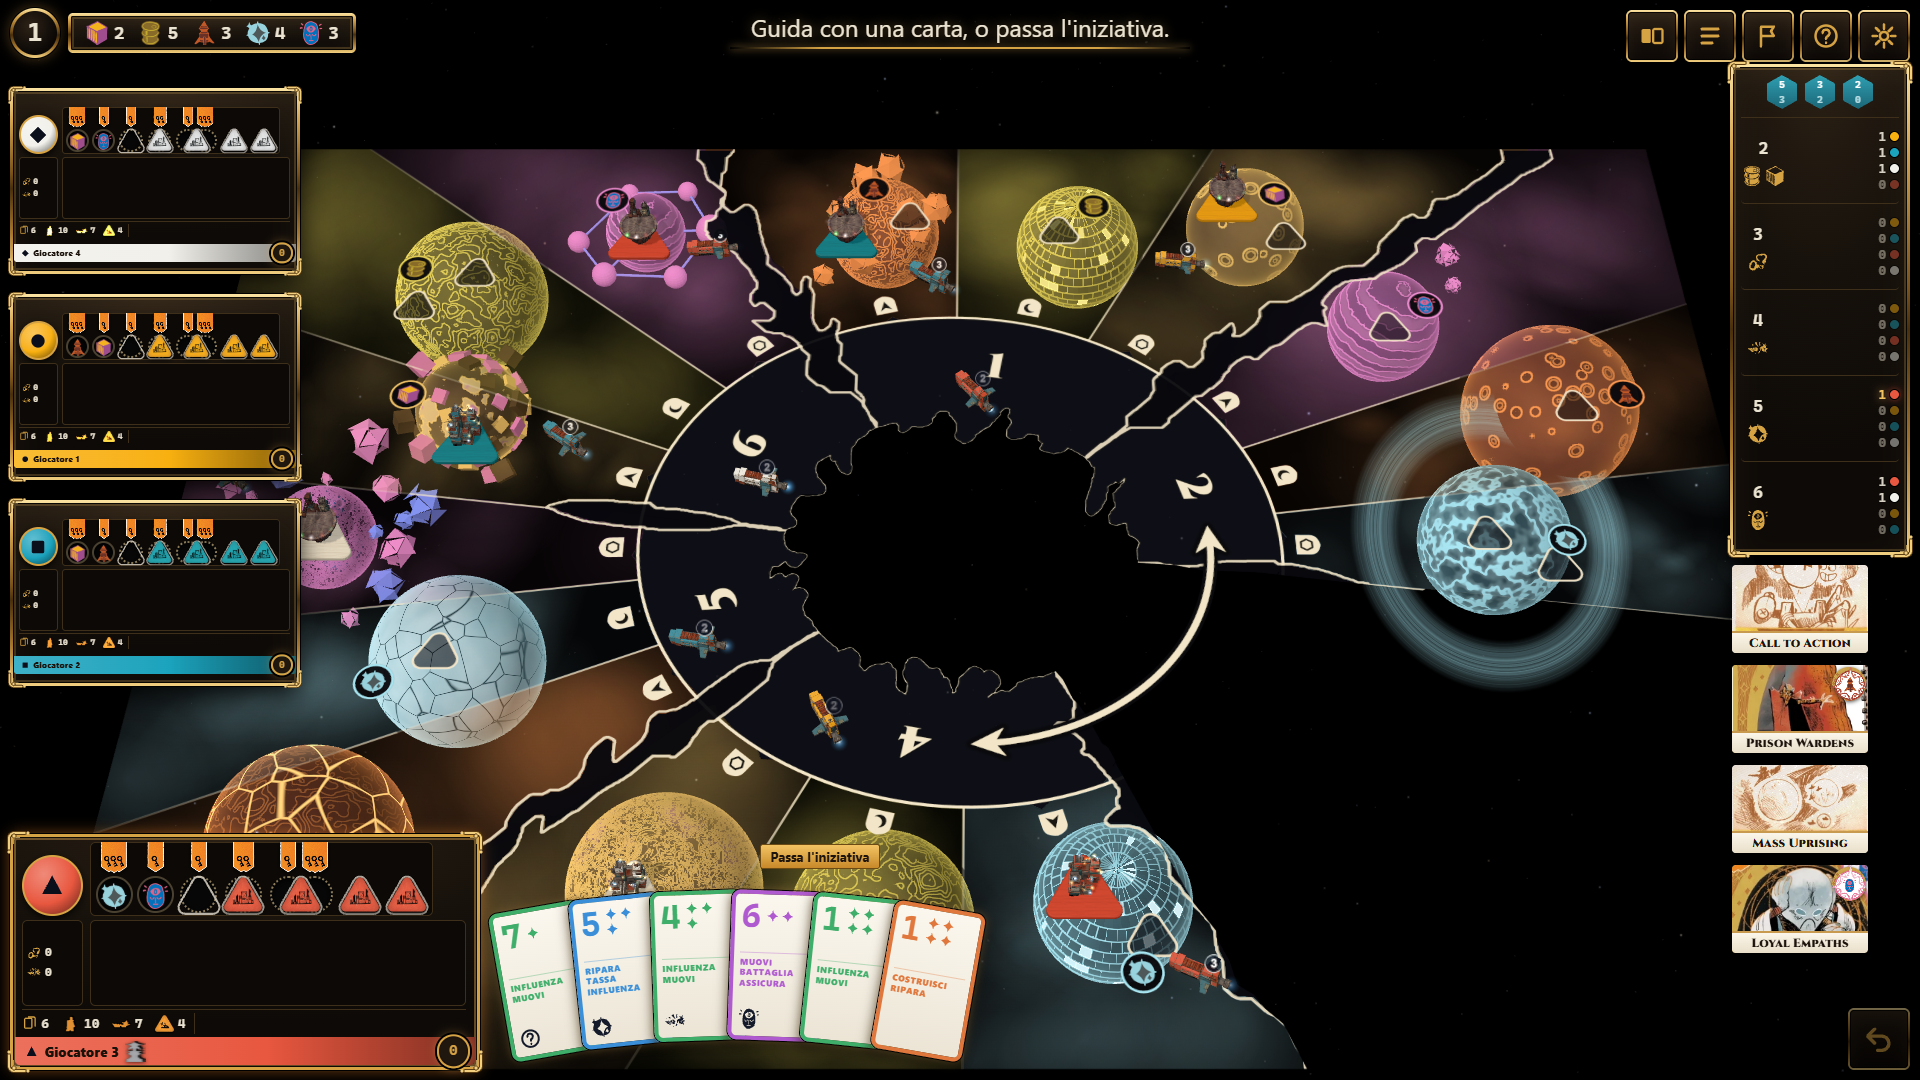
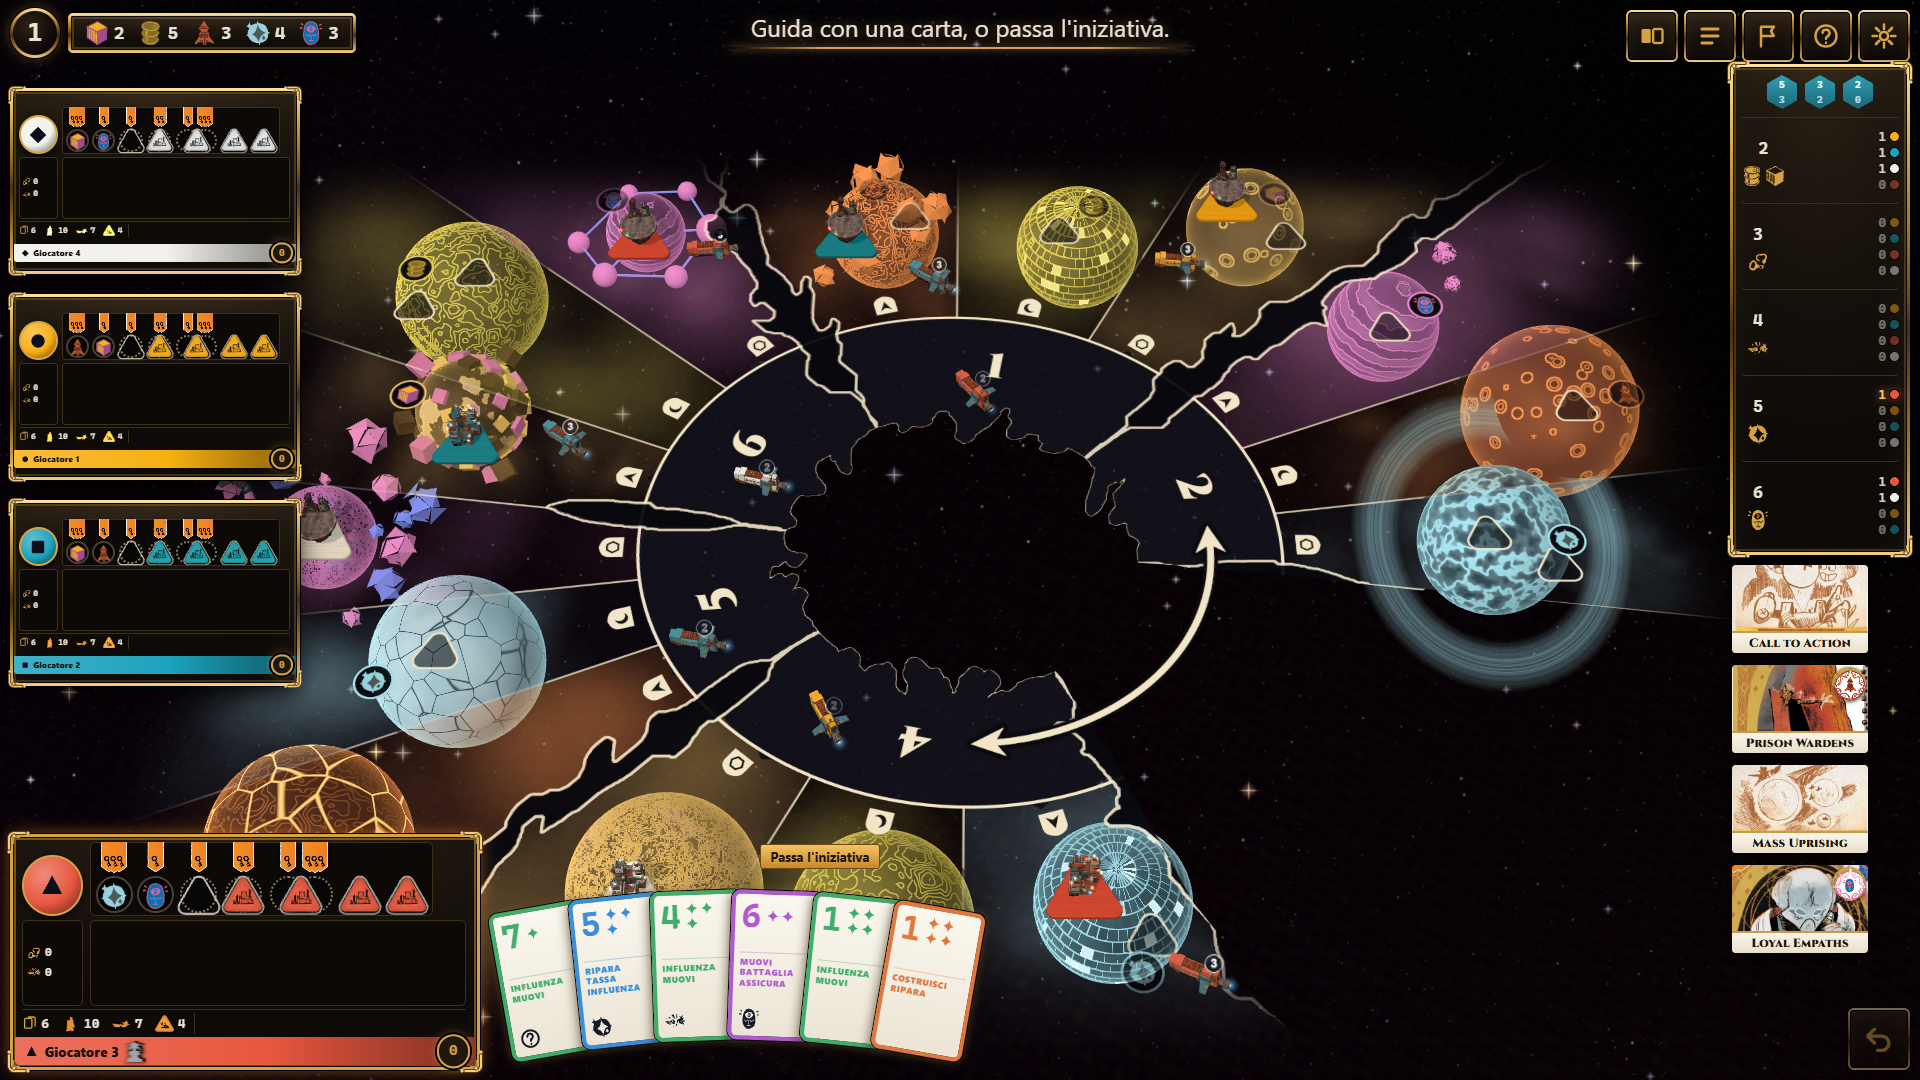
feat: map fades at its borders; richer starry background
- The information layer (lines, cracks, sector colours) fades out over
  the last 150 picture pixels at every border, so the map shows no hard
  edge or corner.
- The space behind the map follows the board's art: many more stars of
  varied sizes and tints, four-pointed sparkles as painted on the board,
  a denser diagonal band like a galaxy, and faint far nebulae in the
  sectors' colours. Star sizes follow the screen's pixel ratio.

Task: map redesign (docs/ui-assets.md, "The map on screen")

diff --git a/src/ui/table/starfield.ts b/src/ui/table/starfield.ts
@@ -1,10 +1,15 @@
-// The space behind the 3D map: black, sprinkled with far stars at many depths
-// below the map's glass, so moving the camera shows them drifting (parallax).
+// The space behind the 3D map, after the board's own art: black, with far
+// nebulae in the board's paints, a dense band of faint stars like a galaxy,
+// stars of many sizes and tints, and the four-pointed sparkles painted on the
+// board. All at many depths below the map's glass, so moving the camera shows
+// them drifting (parallax).
 
 import * as THREE from 'three';
 
-/** Star colours: mostly white, some warm, some cold. */
-const TINTS = ['#ffffff', '#ffffff', '#ffffff', '#fff1d8', '#ffd9b0', '#d8e6ff', '#bcd3ff'];
+/** Star colours: mostly white, some warm and cold, a few in the board's pinks, teals and golds. */
+const TINTS = ['#ffffff', '#ffffff', '#ffffff', '#fff1d8', '#ffd9b0', '#d8e6ff', '#bcd3ff', '#ffd6f0', '#c4fff2', '#ffe7a8'];
+/** Colours of the far nebulae: the board's sector paints, darkened. */
+const NEBULAE = ['#6a2c6e', '#2a5a66', '#7a3c1c', '#30386e', '#5a4a1a', '#7a2a48'];
 
 /** A small deterministic random number generator. */
 function rng(seed: number): () => number {
@@ -18,7 +23,13 @@ function rng(seed: number): () => number {
   };
 }
 
-/** A soft round dot, the shape of every star. */
+function texture(cv: HTMLCanvasElement): THREE.Texture {
+  const tex = new THREE.CanvasTexture(cv);
+  tex.colorSpace = THREE.SRGBColorSpace;
+  return tex;
+}
+
+/** A soft round dot, the shape of most stars. */
 function dot(): THREE.Texture {
   const cv = document.createElement('canvas');
   cv.width = cv.height = 64;
@@ -30,43 +41,138 @@ function dot(): THREE.Texture {
   grad.addColorStop(1, 'rgba(255,255,255,0)');
   g.fillStyle = grad;
   g.fillRect(0, 0, 64, 64);
-  const tex = new THREE.CanvasTexture(cv);
-  tex.colorSpace = THREE.SRGBColorSpace;
-  return tex;
+  return texture(cv);
+}
+
+/** A four-pointed sparkle with a glow, like the stars painted on the board. */
+function sparkle(): THREE.Texture {
+  const cv = document.createElement('canvas');
+  cv.width = cv.height = 128;
+  const g = cv.getContext('2d')!;
+  const glow = g.createRadialGradient(64, 64, 0, 64, 64, 40);
+  glow.addColorStop(0, 'rgba(255,255,255,0.9)');
+  glow.addColorStop(0.2, 'rgba(255,255,255,0.35)');
+  glow.addColorStop(1, 'rgba(255,255,255,0)');
+  g.fillStyle = glow;
+  g.fillRect(0, 0, 128, 128);
+  // Two thin spikes, tapering to points.
+  g.fillStyle = '#ffffff';
+  for (const [dx, dy] of [[1, 0], [0, 1]]) {
+    g.beginPath();
+    g.moveTo(64 - 62 * dx, 64 - 62 * dy);
+    g.lineTo(64 + 4 * dy, 64 + 4 * dx);
+    g.lineTo(64 + 62 * dx, 64 + 62 * dy);
+    g.lineTo(64 - 4 * dy, 64 - 4 * dx);
+    g.closePath();
+    g.fill();
+  }
+  return texture(cv);
+}
+
+/** A sheet of far nebula: soft clouds in the board's paints with darker lanes, transparent elsewhere. */
+function nebulaSheet(seed: number): THREE.Texture {
+  const rand = rng(seed);
+  const cv = document.createElement('canvas');
+  cv.width = cv.height = 1024;
+  const g = cv.getContext('2d')!;
+  const cloud = (x: number, y: number, r: number, squash: number, stops: [number, string][]) => {
+    g.save();
+    g.translate(x, y);
+    g.rotate(rand() * Math.PI);
+    g.scale(1, squash);
+    const grad = g.createRadialGradient(0, 0, 0, 0, 0, r);
+    for (const [t, c] of stops) grad.addColorStop(t, c);
+    g.fillStyle = grad;
+    g.fillRect(-r, -r, 2 * r, 2 * r);
+    g.restore();
+  };
+  g.globalCompositeOperation = 'lighter';
+  for (let i = 0; i < 34; i++) {
+    const c = new THREE.Color(NEBULAE[Math.floor(rand() * NEBULAE.length)]);
+    const rgb = `${Math.round(c.r * 255)},${Math.round(c.g * 255)},${Math.round(c.b * 255)}`;
+    const a = 0.025 + rand() * 0.07;
+    cloud(rand() * 1024, rand() * 1024, 60 + rand() * 260, 0.3 + rand() * 0.7, [
+      [0, `rgba(${rgb},${a})`],
+      [0.5, `rgba(${rgb},${a * 0.45})`],
+      [1, `rgba(${rgb},0)`],
+    ]);
+  }
+  // Dark lanes through the clouds.
+  g.globalCompositeOperation = 'destination-out';
+  for (let i = 0; i < 18; i++) {
+    cloud(rand() * 1024, rand() * 1024, 40 + rand() * 160, 0.15 + rand() * 0.3, [
+      [0, 'rgba(0,0,0,0.6)'],
+      [1, 'rgba(0,0,0,0)'],
+    ]);
+  }
+  // Fade the sheet's own edges so its square never shows.
+  g.globalCompositeOperation = 'destination-in';
+  const edge = g.createRadialGradient(512, 512, 300, 512, 512, 512);
+  edge.addColorStop(0, 'rgba(0,0,0,1)');
+  edge.addColorStop(1, 'rgba(0,0,0,0)');
+  g.fillStyle = edge;
+  g.fillRect(0, 0, 1024, 1024);
+  return texture(cv);
 }
 
 /**
- * The star field: `count` stars spread over a wide slab under the map
- * (`width` × `depth` world units, from just under the planets to far below).
- * Three layers, sized in screen pixels so far stars stay visible: many
- * small faint ones, fewer brighter ones, a handful of large bright ones.
+ * The space under the map (`width` × `depth` world units around it, from just
+ * under the planets to far below). Stars keep a size in screen pixels (times
+ * `pixelRatio`), so the far ones stay visible; `count` sets the density.
  */
-export function starfield(width: number, depth: number, count = 7000, seed = 7): THREE.Group {
+export function starfield(width: number, depth: number, count = 7000, seed = 7, pixelRatio = 1): THREE.Group {
   const rand = rng(seed);
   const group = new THREE.Group();
-  const sprite = dot();
-  const layer = (n: number, size: number, bright: number) => {
+  const round = dot();
+  const star4 = sparkle();
+  const place = (band: boolean): number[] => {
+    // Deeper is wider, so the far field fills the view at any tilt.
+    const y = -3 - Math.pow(rand(), 0.7) * 60;
+    const spread = 1 + -y / 12;
+    if (!band) return [(rand() - 0.5) * width * spread, y, (rand() - 0.5) * depth * spread - y * 0.6];
+    // The galaxy's band: along a diagonal, thickest in the middle.
+    const t = rand() - 0.5;
+    const off = (rand() + rand() + rand() - 1.5) * 0.18;
+    return [(t * 1.2 + off * 0.6) * width * spread, y, (t * 0.7 - off) * depth * spread - y * 0.6];
+  };
+  const layer = (n: number, size: number, bright: number, map: THREE.Texture, band = 0) => {
     const pos = new Float32Array(n * 3);
     const col = new Float32Array(n * 3);
     const c = new THREE.Color();
     for (let i = 0; i < n; i++) {
-      // Spread wider the deeper they are, so the far field fills the view at any tilt.
-      const y = -3 - Math.pow(rand(), 0.7) * 60;
-      const spread = 1 + -y / 12;
-      pos[i * 3] = (rand() - 0.5) * width * spread;
-      pos[i * 3 + 1] = y;
-      pos[i * 3 + 2] = (rand() - 0.5) * depth * spread - y * 0.6;
-      c.set(TINTS[Math.floor(rand() * TINTS.length)]).multiplyScalar(bright * (0.35 + 0.65 * rand()));
+      pos.set(place(rand() < band), i * 3);
+      c.set(TINTS[Math.floor(rand() * TINTS.length)]).multiplyScalar(bright * (0.3 + 0.7 * Math.pow(rand(), 1.5)));
       col.set([c.r, c.g, c.b], i * 3);
     }
     const geo = new THREE.BufferGeometry();
     geo.setAttribute('position', new THREE.BufferAttribute(pos, 3));
     geo.setAttribute('color', new THREE.BufferAttribute(col, 3));
-    const mat = new THREE.PointsMaterial({ size, map: sprite, vertexColors: true, transparent: true, depthWrite: false, blending: THREE.AdditiveBlending, sizeAttenuation: false });
+    const mat = new THREE.PointsMaterial({ size: size * pixelRatio, map, vertexColors: true, transparent: true, depthWrite: false, blending: THREE.AdditiveBlending, sizeAttenuation: false });
     const pts = new THREE.Points(geo, mat);
     pts.frustumCulled = false;
     return pts;
   };
-  group.add(layer(count, 2.2, 0.8), layer(Math.round(count / 8), 4, 1), layer(Math.round(count / 60), 7, 1));
+  // Far nebulae: a few sheets at different depths, turned so they do not line up.
+  for (let i = 0; i < 4; i++) {
+    const y = -16 - i * 12;
+    const spread = 1 + -y / 12;
+    const sheet = new THREE.Mesh(
+      new THREE.PlaneGeometry(width * spread * 0.9, width * spread * 0.9),
+      new THREE.MeshBasicMaterial({ map: nebulaSheet(seed * 31 + i), transparent: true, depthWrite: false, blending: THREE.AdditiveBlending, opacity: 0.85 }),
+    );
+    sheet.rotation.x = -Math.PI / 2;
+    sheet.rotation.z = i * 1.3;
+    sheet.position.set((rand() - 0.5) * width * 0.6, y, -y * 0.6 + (rand() - 0.5) * depth * 0.5);
+    sheet.renderOrder = -1;
+    group.add(sheet);
+  }
+  group.add(
+    layer(count * 8, 1.4, 0.9, round, 0.5),
+    layer(count * 3, 2.2, 1, round, 0.35),
+    layer(count, 3.2, 1.1, round, 0.2),
+    layer(Math.round(count / 6), 5, 1.2, round),
+    layer(Math.round(count / 8), 14, 1.1, star4, 0.25),
+    layer(Math.round(count / 40), 26, 1.2, star4),
+  );
   return group;
 }

diff --git a/src/ui/table/infolayer.ts b/src/ui/table/infolayer.ts
@@ -457,7 +457,37 @@ export function drawInfoLayer(cv: HTMLCanvasElement, lines: BoardLines, calib: B
     const pts = bridgeArc(lines, st.inPlay, a, b);
     if (pts) bridgeArrow(g, pts);
   }
+
+  // The map has no hard edge: everything fades out towards the picture's borders.
   g.setTransform(1, 0, 0, 1, 0, 0);
+  fadeEdges(g, cv.width, cv.height, (EDGE_FADE * cv.width) / lines.width);
+}
+
+/** Width of the fade at the map's borders, in picture pixels. */
+export const EDGE_FADE = 150;
+
+/** Fades the canvas out towards its borders: transparent at the edge, untouched from `w` pixels in. */
+function fadeEdges(g: CanvasRenderingContext2D, width: number, height: number, w: number): void {
+  const ramp = (x0: number, y0: number, x1: number, y1: number) => {
+    const grad = g.createLinearGradient(x0, y0, x1, y1);
+    // A smoothstep in a few stops, so the fade has no visible start.
+    for (const t of [0, 0.15, 0.3, 0.5, 0.7, 0.85, 1]) grad.addColorStop(t, `rgba(0,0,0,${(1 - t * t * (3 - 2 * t)).toFixed(3)})`);
+    return grad;
+  };
+  g.save();
+  // destination-out (not -in): it touches only the strips, the rest stays.
+  g.globalCompositeOperation = 'destination-out';
+  const sides: [number, number, number, number, number, number, number, number][] = [
+    [0, 0, w, 0, 0, 0, w, height],
+    [width, 0, width - w, 0, width - w, 0, w, height],
+    [0, 0, 0, w, 0, 0, width, w],
+    [0, height, 0, height - w, 0, height - w, width, w],
+  ];
+  for (const [x0, y0, x1, y1, rx, ry, rw, rh] of sides) {
+    g.fillStyle = ramp(x0, y0, x1, y1);
+    g.fillRect(rx, ry, rw, rh);
+  }
+  g.restore();
 }
 
 /** A curved arrow along `pts` with a head at each end, in the layer's ink over a dark edge. */

diff --git a/src/ui/table/board3d.ts b/src/ui/table/board3d.ts
@@ -172,7 +172,7 @@ export class Board3D {
 
     if (this.space) {
       // Space: stars far below, planets under the glass, the pieces' shadows on the glass.
-      this.scene.add(starfield(60, 44), this.planetGroup);
+      this.scene.add(starfield(60, 44, 7000, 7, Math.min(2, window.devicePixelRatio || 1)), this.planetGroup);
       const catcher = new THREE.Mesh(new THREE.PlaneGeometry(400, 400), new THREE.ShadowMaterial({ opacity: 0.32, depthWrite: false }));
       catcher.rotation.x = -Math.PI / 2;
       catcher.position.y = 0.0005;
